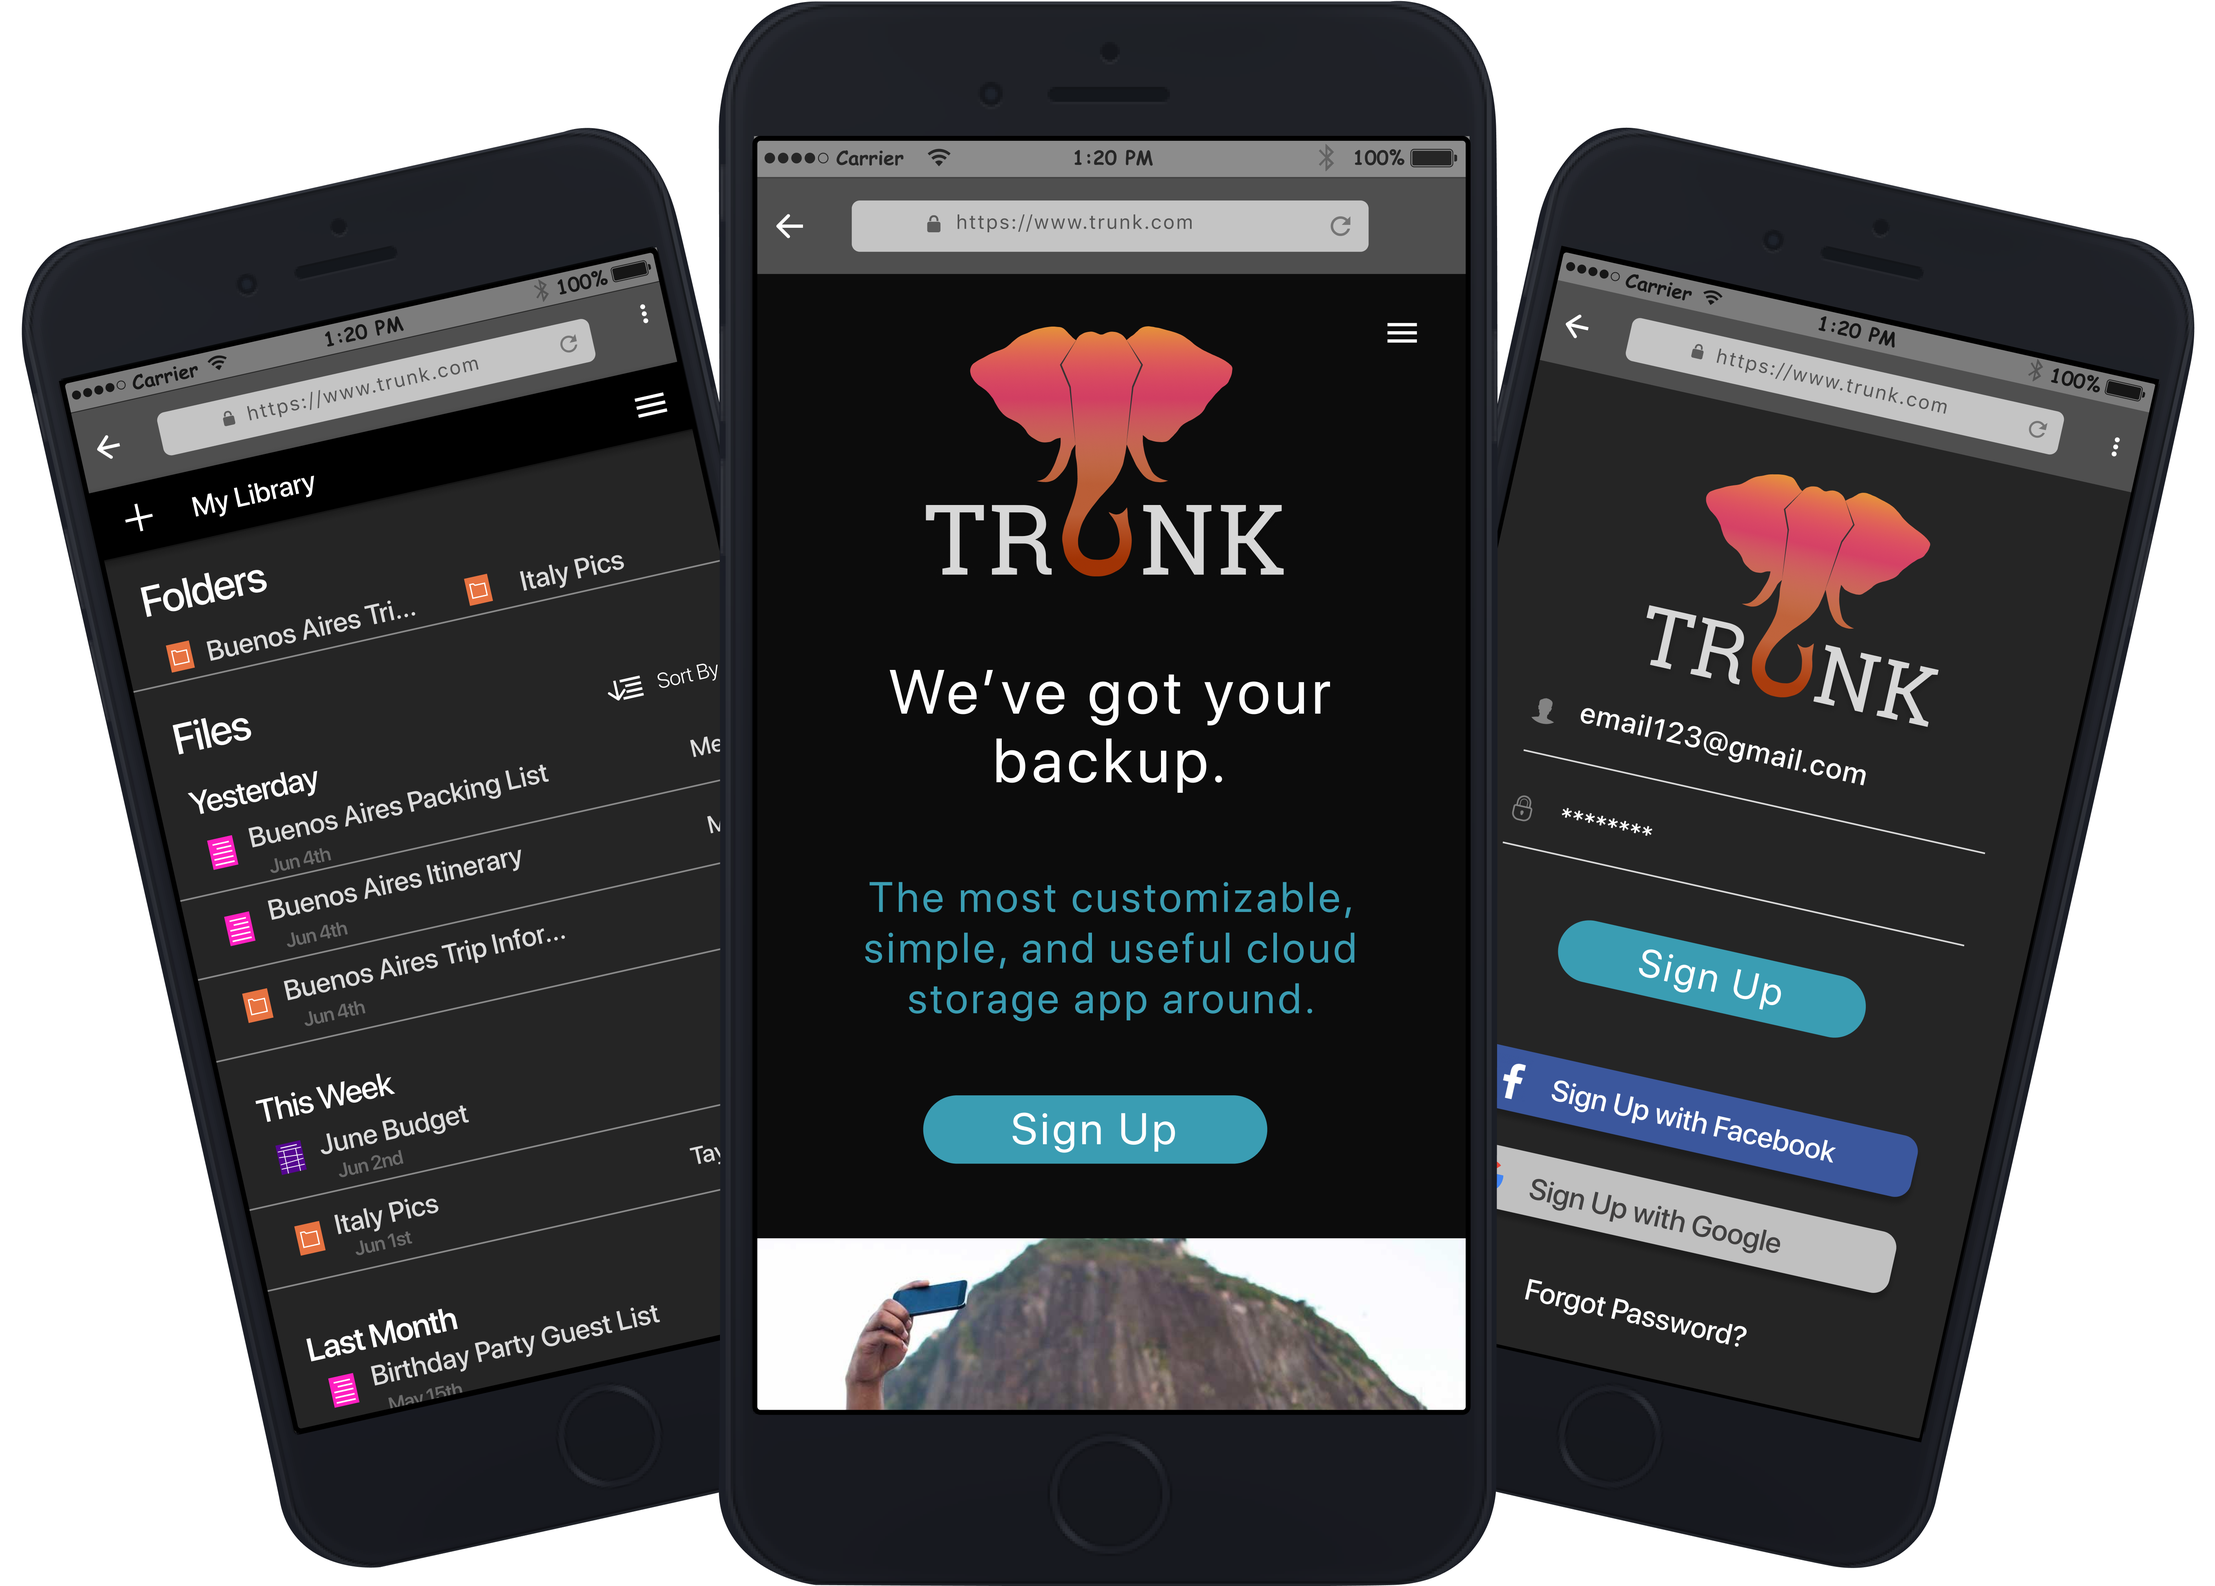
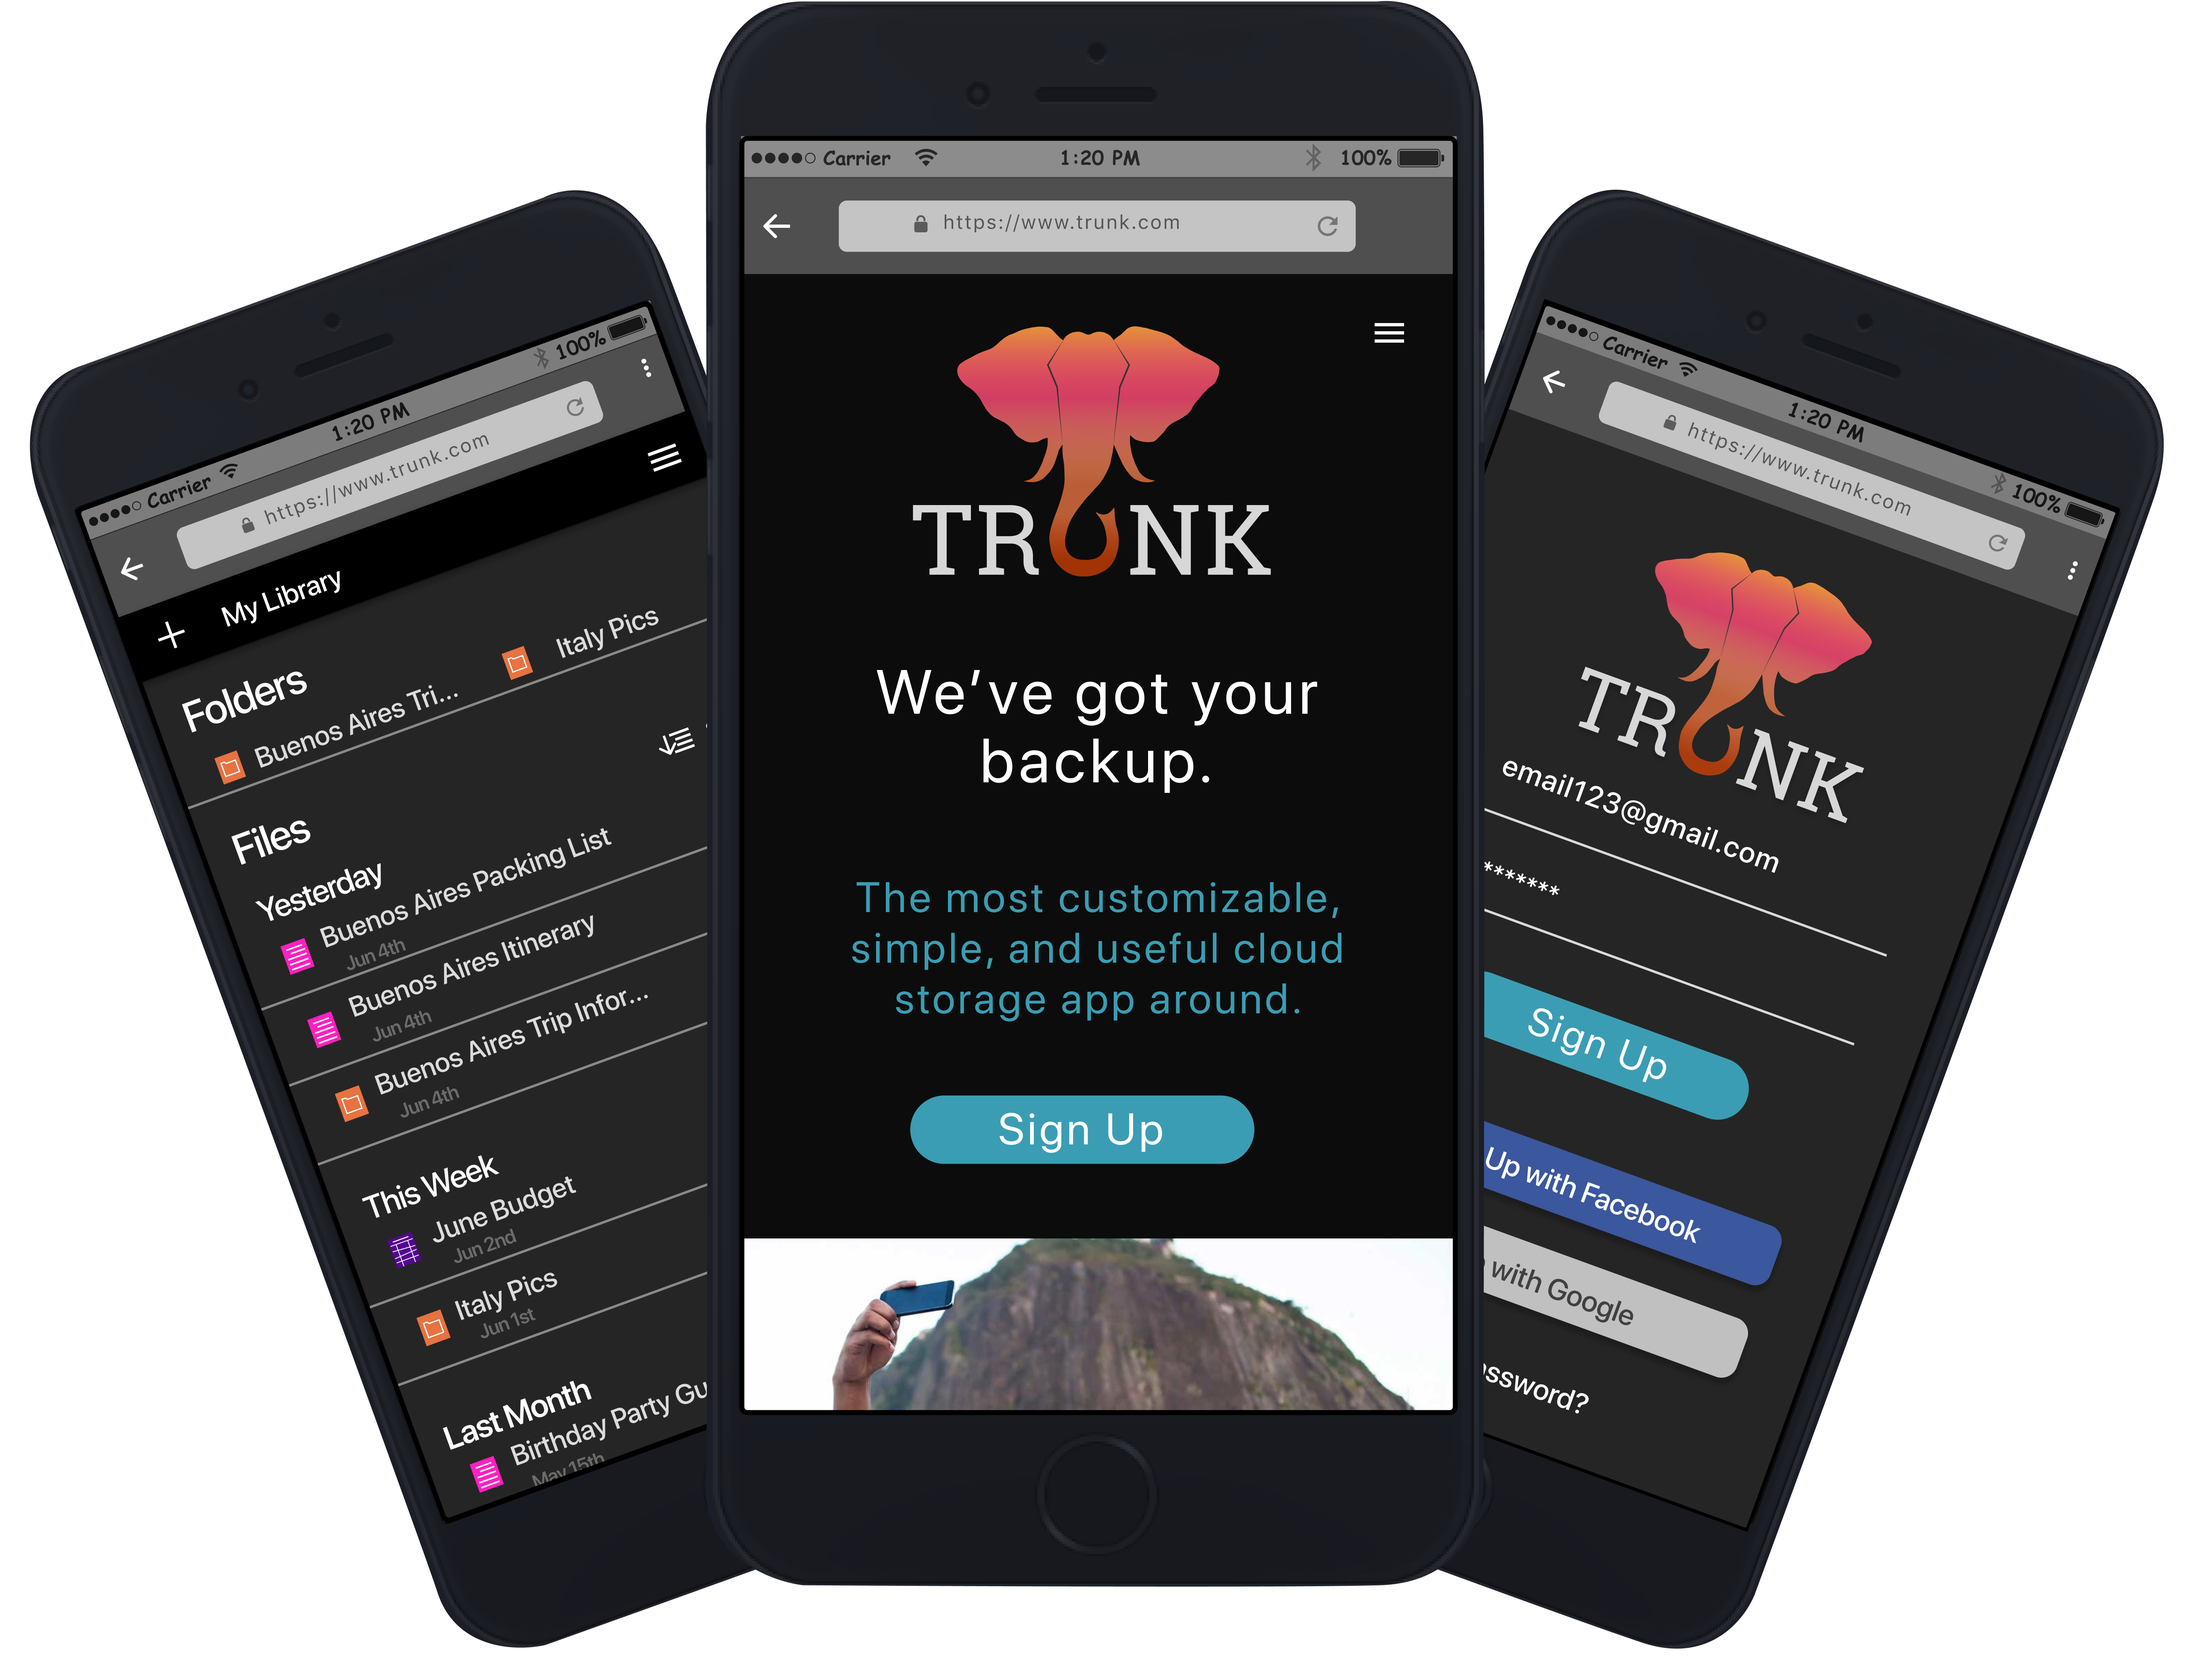
go to sleep good god

diff --git a/trunk.html b/trunk.html
@@ -277,14 +277,16 @@
       to determine which actions are high, medium, and low priority. The most important features the ability to <span style="font-weight:bold">create an
       account, login, upload files, access files from anywhere, collaborate, answer
       security questions to verify identity, and auto backups.</span></p>
-
+<br><br>
               <ul>
-                <li style="list-style-type: circle"><p>Signing up for an account</p></li>
-                <li><p>Create new documents</p></li>
-                <li><p>Sharing my files with others</p></li>
-                <li><p>Access files from anywhere</p></li>
-                <li><p>Uploading files</p></li>
+                <li><p>0Signing up for an account</p></li>
+                <li><p>-Create new documents</p></li>
+                <li><p>-Sharing my files with others</p></li>
+                <li><p>-Access files from anywhere</p></li>
+                <li><p>-Uploading files</p></li>
               </ul>
+
+              <br><br>
       <p>These user stories were then converted into <a href="https://drive.google.com/drive/folders/1-gCh6H-ABQqQHfucbMEoJIjen3StJAXi?usp=sharing">user flows</a>
       to map each process from point A to point B.
         </p>
@@ -370,8 +372,12 @@
           design <span style="font-weight:bold">121 individual mockup screens</span> that would become our prototype. These
           were more colorful and attractive than our wireframes. After many drafts and
           changes, we created our second clickable prototype.</p>
+          <img src="images/trunk-mockups.png" alt="trunk mockups" class="trunk-mockups">
+          <img src="images/mobile-trunk-mockups.png" alt="trunk mockups" class="mobile-trunk-mockups">
 
-          <section class="usability-tests-two">
+
+        <section class="usability-tests-two">
+          <h2>Usability Tests Round 2</h2>
           <p>When we were finished, we conducted another <a href="https://docs.google.com/document/d/1uM7YAzgGMSITabNSVgLuI5BGBBD2EI2nCQF2fm_Fj6Y/edit">usability test</a>
           to see how potential users would interact with our finished design.</p>
 

diff --git a/css/complete-style.css b/css/complete-style.css
@@ -157,8 +157,10 @@ br {
 }
 
 
-li{
-list-style-type: disc;
+ul{
+  display: flex;
+  flex-direction: column;
+  justify-content: center;
 }
 
 footer{
@@ -479,6 +481,11 @@ section.trunk-title h2{
   margin: 0rem;
 }
 
+.trunk-mockups{
+  margin-top: 5rem;
+  width: 100%;
+}
+
 .mockups .prototype-button h2{
   color: #B6ECF8;
   font-size: 2rem;
@@ -690,6 +697,18 @@ h2.results{
   margin: 3rem auto 5rem auto;
   width: 90%;
 }
+
+.trunk-mockups{
+  display: none;
+}
+
+img.mobile-trunk-mockups{
+  display: flex;
+  margin: auto;
+  margin-top: 5rem;
+  width: 100%;
+}
+
 
 .conclusion {
   margin-bottom: 10rem;
@@ -1210,6 +1229,17 @@ h1.hero-about-h1{
     margin-left: 12.5%;
   }
 
+  .trunk-mockups{
+    display: none;
+  }
+
+  img.mobile-trunk-mockups{
+    display: flex;
+    margin: auto;
+    margin-top: 5rem;
+    width: 40%;
+  }
+
   .desktop-original-file, .desktop-original-folder{
     margin: 4rem 12.5%;
     width: 75%;
@@ -1468,6 +1498,17 @@ h1.hero-about-h1{
 
  h2.h2-mobile{
    padding-top: 5%;
+ }
+
+ .trunk-mockups{
+   display: flex;
+   justify-content: center;
+   margin: 3rem auto 5rem auto;
+   width: 90%;
+ }
+
+ img.mobile-trunk-mockups{
+   display: none;
  }
 
   .hero-wrapper {
